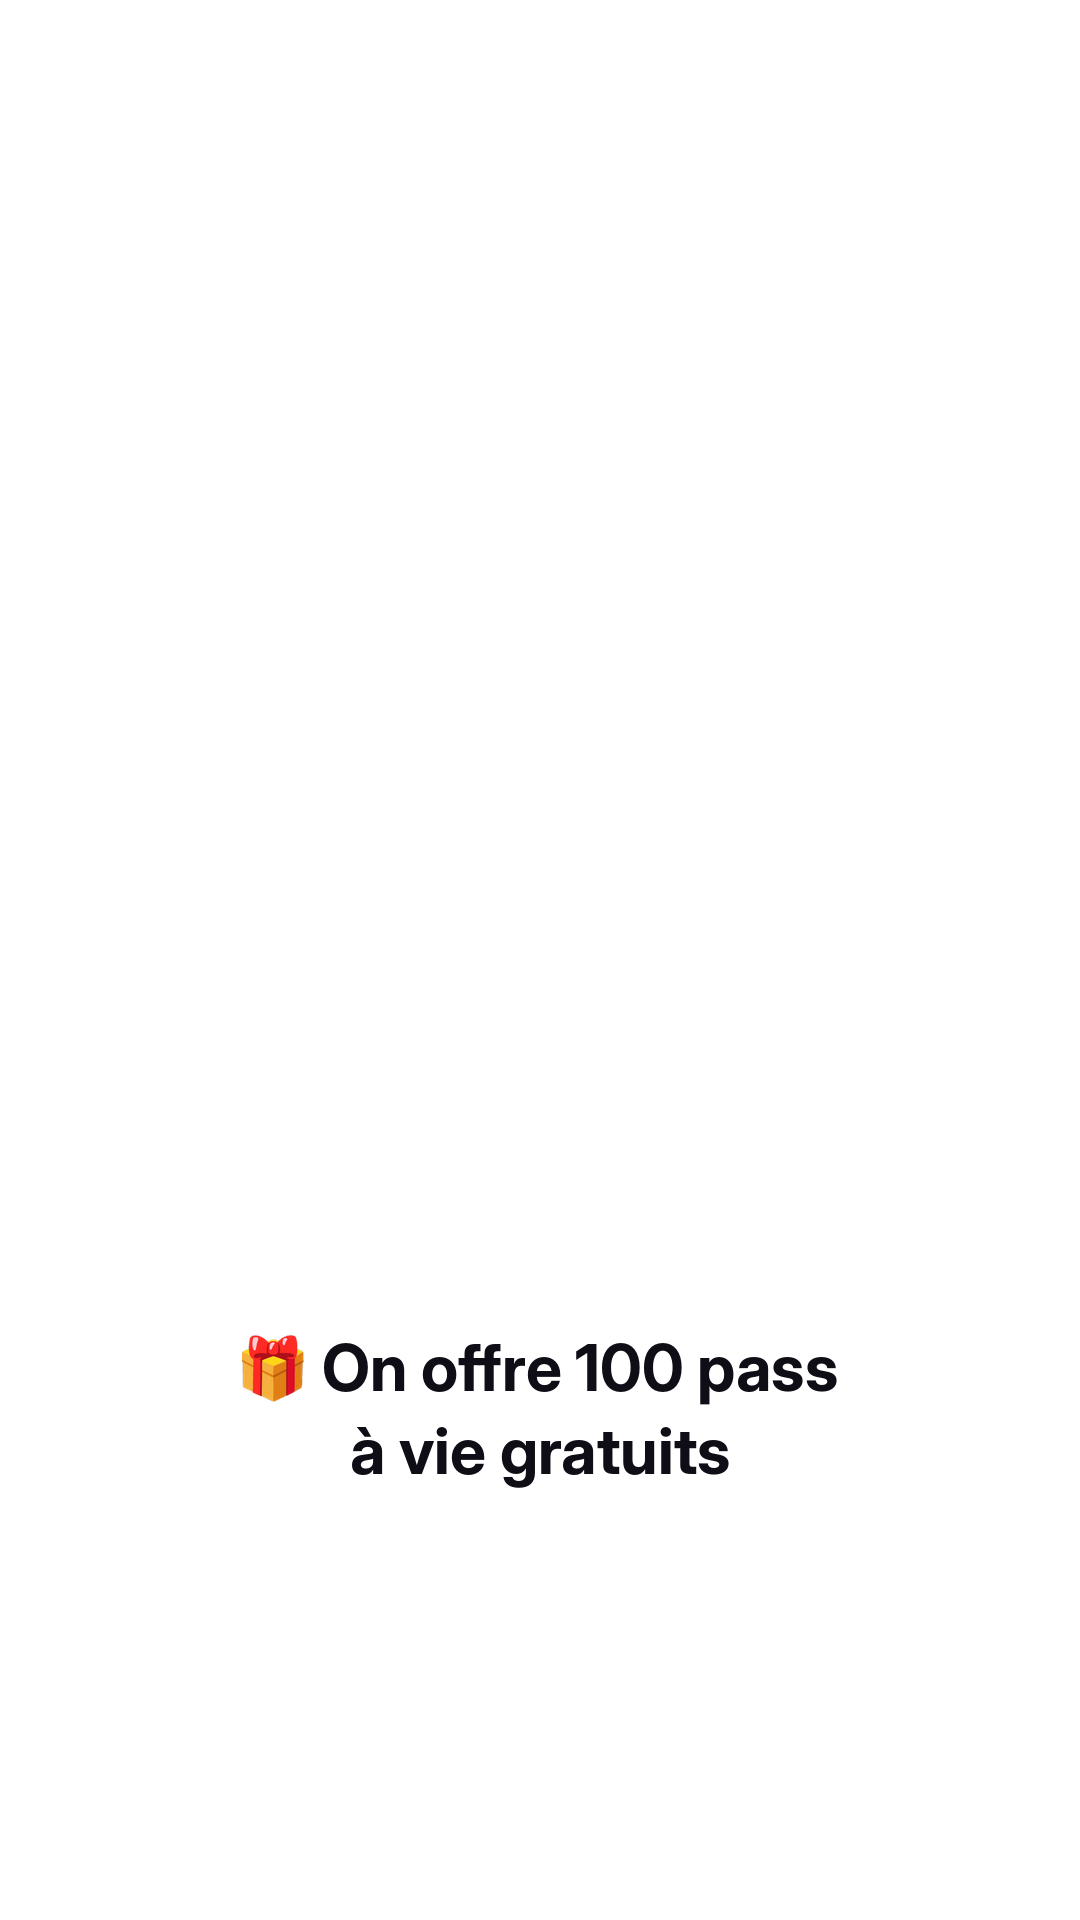
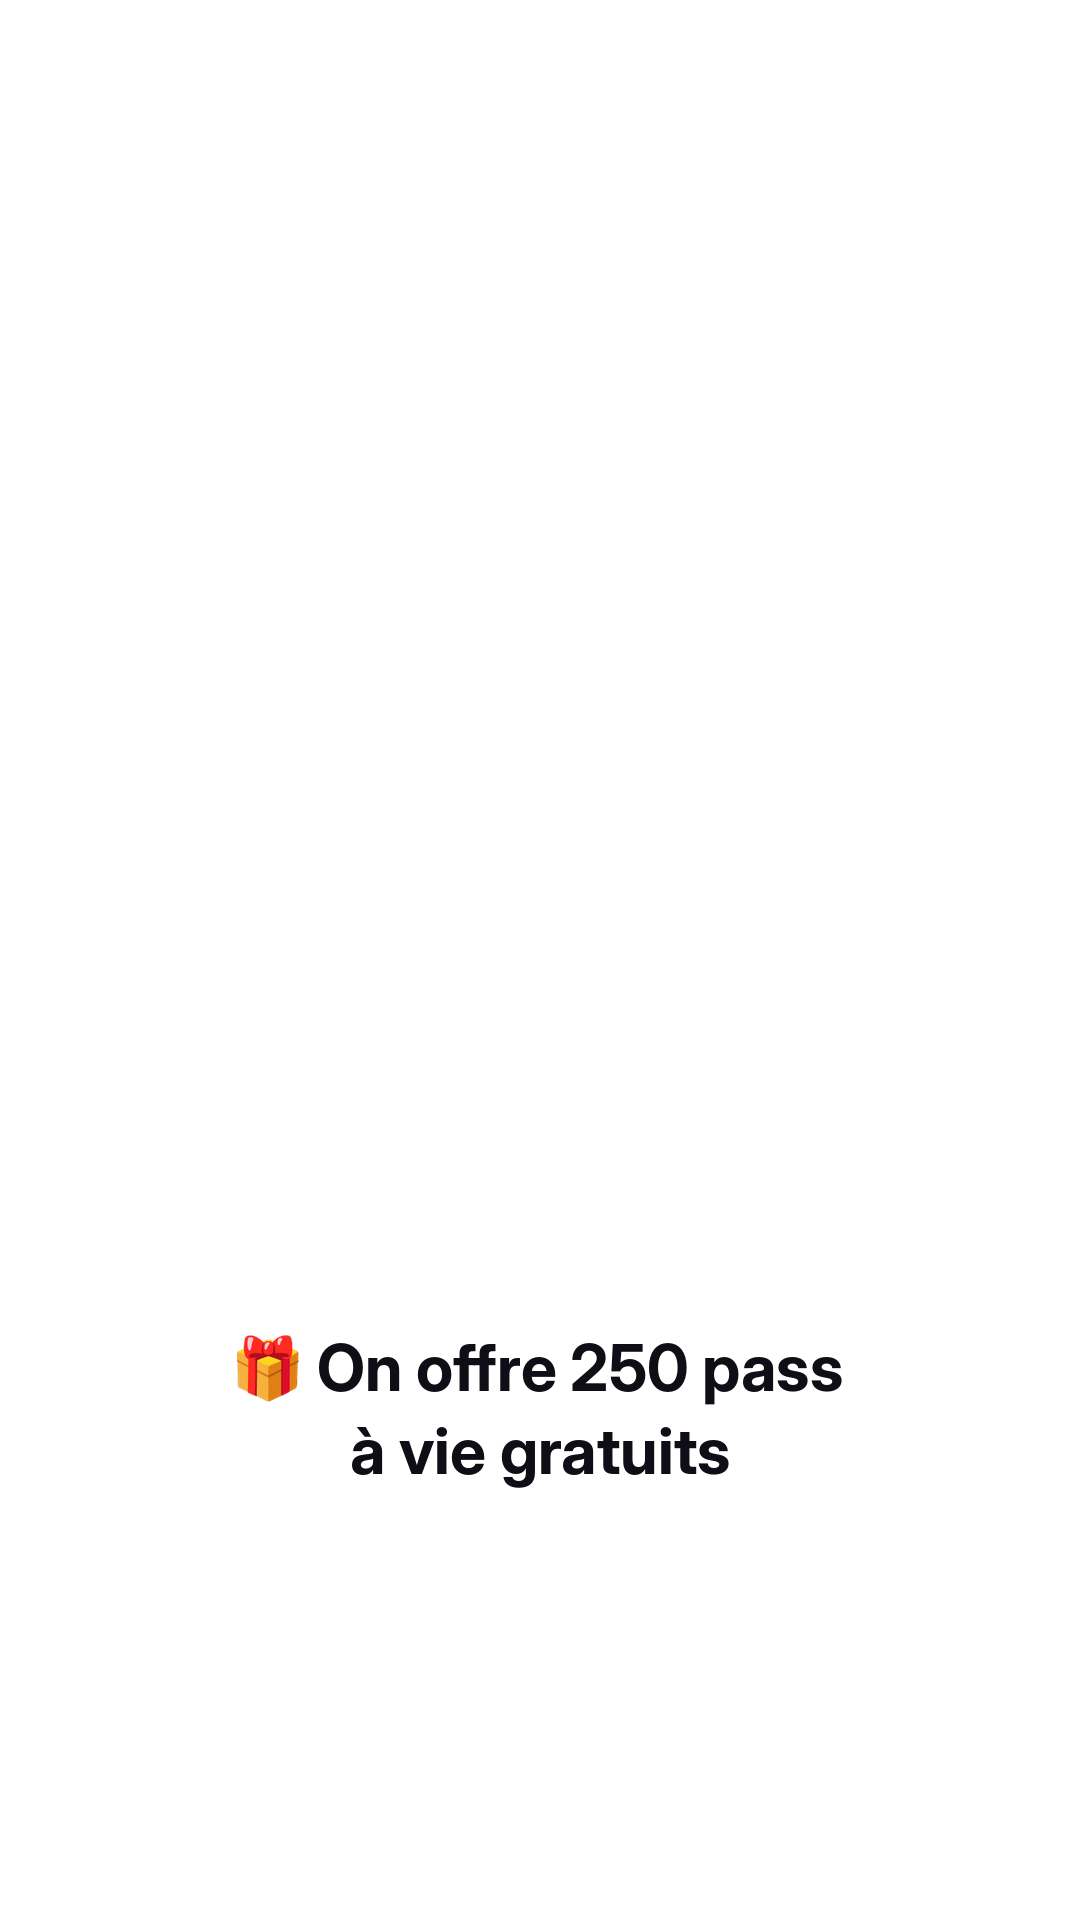
Giveaway captions: 250 passes
Claude-Session: https://claude.ai/code/session_01Nfw8GqVW5u5Dp8ws2maeUt

Changed region(s): [[0.2139, 0.6875, 0.7639, 0.75]]

diff --git a/pass_overlays.py b/pass_overlays.py
@@ -1,20 +1,20 @@
-"""Overlays for '100 lifetime passes giveaway' video. Usage: python3 pass_overlays.py OUT_DIR"""
+"""Overlays for '250 lifetime passes giveaway' video. Usage: python3 pass_overlays.py OUT_DIR"""
 import os, sys
 from vlc_overlays import card
 
 HOOK = {
-    "en": ["🎁 Giving away 100", "free lifetime passes"],
-    "nl": ["🎁 We geven 100 gratis", "lifetime-passes weg"],
-    "fr": ["🎁 On offre 100 pass", "à vie gratuits"],
-    "es": ["🎁 Regalamos 100 pases", "de por vida gratis"],
-    "de": ["🎁 Wir verschenken 100", "Lifetime-Pässe gratis"],
+    "en": ["🎁 Giving away 250", "free lifetime passes"],
+    "nl": ["🎁 We geven 250 gratis", "lifetime-passes weg"],
+    "fr": ["🎁 On offre 250 pass", "à vie gratuits"],
+    "es": ["🎁 Regalamos 250 pases", "de por vida gratis"],
+    "de": ["🎁 Wir verschenken 250", "Lifetime-Pässe gratis"],
 }
 PAY = {
-    "en": ["Kanalo Pro. Free forever.", "Only the first 100."],
-    "nl": ["Kanalo Pro. Voor altijd gratis.", "Alleen de eerste 100."],
-    "fr": ["Kanalo Pro. Gratuit à vie.", "Seulement les 100 premiers."],
-    "es": ["Kanalo Pro. Gratis para siempre.", "Solo los 100 primeros."],
-    "de": ["Kanalo Pro. Für immer gratis.", "Nur die ersten 100."],
+    "en": ["Kanalo Pro. Free forever.", "Only the first 250."],
+    "nl": ["Kanalo Pro. Voor altijd gratis.", "Alleen de eerste 250."],
+    "fr": ["Kanalo Pro. Gratuit à vie.", "Seulement les 250 premiers."],
+    "es": ["Kanalo Pro. Gratis para siempre.", "Solo los 250 primeros."],
+    "de": ["Kanalo Pro. Für immer gratis.", "Nur die ersten 250."],
 }
 CTA = {
     "en": ["kanalo.app · link in bio 👆"],
